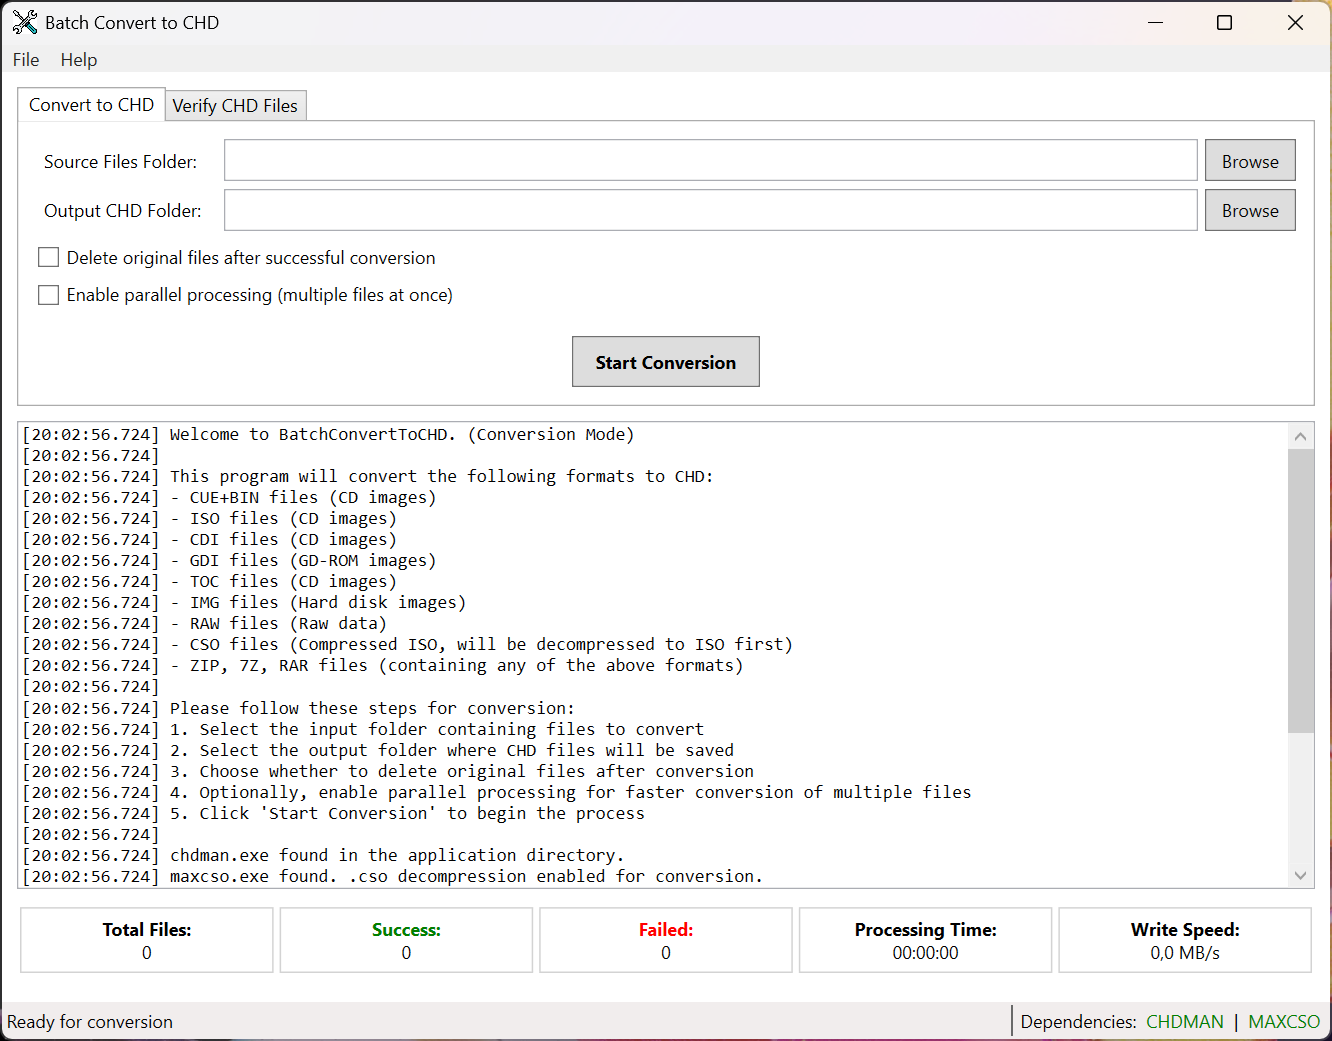
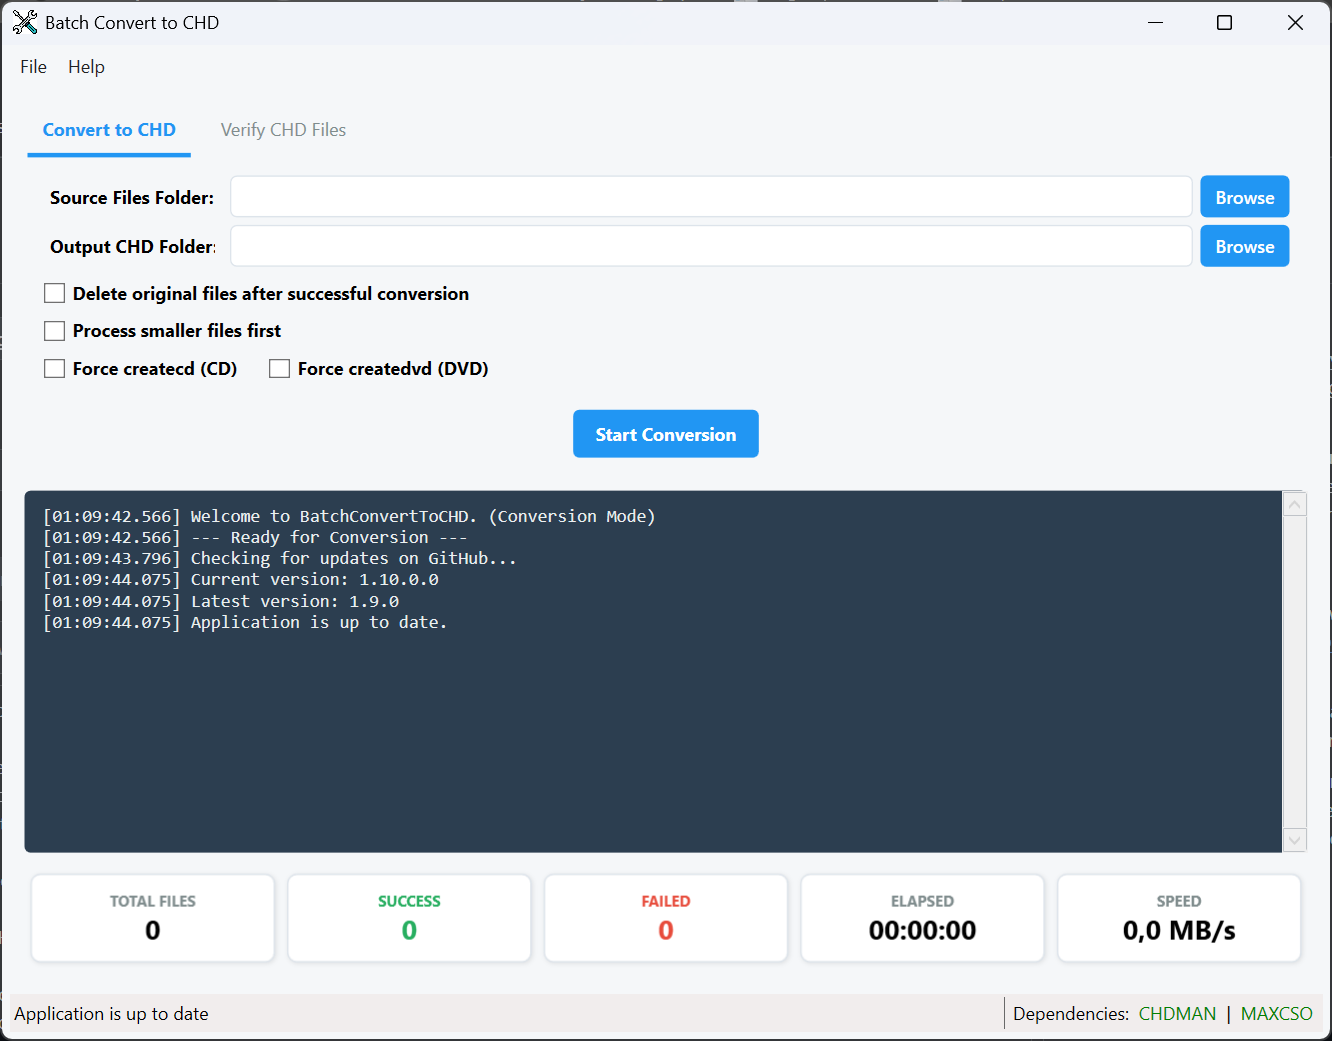
Revamp `ReadMe.md` with feature highlights and visuals
- Rewrote and reorganized `ReadMe.md` to improve clarity, showcase key features, and emphasize supported formats.
- Added badges for license, platform, and dependencies.
- Replaced and expanded screenshots for better visual representation of the tool.
- Updated installation and usage sections with streamlined instructions.
- Elaborated on technical details, contributing guidelines, and acknowledgments.

diff --git a/ReadMe.md b/ReadMe.md
@@ -1,163 +1,116 @@
 # Batch Convert to CHD
 
-A Windows desktop utility for batch converting various disk image formats to CHD (Compressed Hunks of Data) format and for verifying the integrity of existing CHD files.
+[![License: GPL v3](https://img.shields.io/badge/License-GPLv3-blue.svg)](LICENSE.txt)
+[![.NET 10.0](https://img.shields.io/badge/.NET-10.0-512bd4.svg)](https://dotnet.microsoft.com/download/dotnet/10.0)
+[![Platform: Windows](https://img.shields.io/badge/Platform-Windows-0078d7.svg)](#)
 
-![Batch Convert to CHD](screenshot.png)
+**Batch Convert to CHD** is a high-performance Windows desktop utility designed to streamline the conversion of various disk image formats into the **Compressed Hunks of Data (CHD)** format. By leveraging the industry-standard `chdman` (MAME) and `maxcso` tools, it provides a robust, user-friendly interface for batch processing, archive extraction, and data integrity verification.
 
-## Overview
+![Batch Convert to CHD Screenshot](screenshot.png)
+![Batch Convert to CHD Screenshot](screenshot2.png)
 
-Batch Convert to CHD is a Windows application that provides a simple user interface for converting multiple disk image files to the CHD format and verifying existing CHD files. It uses **CHDMAN** from the MAME project for the actual conversions and verifications, while providing a user-friendly interface for batch processing. The application supports extracting disk images from archives, and comprehensive CHD file verification.
+## 🚀 Key Features
 
-⭐ **If you find this tool useful, please give us a Star on GitHub!** ⭐
+### Intelligent Conversion
+*   **Automated Batch Processing**: Convert entire directories of disk images with real-time progress monitoring.
+*   **Smart Command Selection**: Automatically detects the optimal `chdman` command (`createcd`, `createdvd`, `createhd`, or `createraw`) based on file headers and extensions.
+*   **Archive Integration**: Transparently handles `.zip`, `.7z`, and `.rar` archives, extracting and processing contents automatically.
+*   **CSO Decompression**: Built-in support for `.cso` (Compressed ISO) files via `maxcso` integration.
+*   **Queue Optimization**: Option to process smaller files first to maximize throughput and manage temporary storage efficiently.
 
-## Features
+### Integrity & Verification
+*   **Batch Verification**: Validate the checksums and structural integrity of existing CHD files.
+*   **Automated Organization**: Optionally move verified or failed files into dedicated subfolders (`Success`/`Failed`) for easy library management.
+*   **Recursive Scanning**: Support for deep-folder verification passes.
 
-### Conversion Features
-- **Batch Processing**: Convert multiple files in a single operation with real-time progress tracking
-- **Multiple Format Support**: Handles CD, DVD, GD-ROM, and HDD image formats
-- **Archive Support**: Automatically extracts and processes files from `.zip`, `.7z`, and `.rar` archives
-- **CSO Decompression**: Supports `.cso` (Compressed ISO) files with automatic decompression using maxcso
-- **Smart Command Selection**: Automatically chooses the correct CHDMAN command (`createcd`, `createdvd`, etc.) based on file type
-- **Smart File Handling**: Sanitizes file names and handles complex file paths safely by using temporary files for processing
-- **Delete Original Option**: Remove source files (including archives and referenced files like .bin for .cue) after successful conversion
-- **Process Smallest First**: Option to prioritize processing smaller files first, which can be useful for quicker feedback on progress or for systems with limited temporary storage.
-
-### Verification Features
-- **CHD Integrity Verification**: Verify the integrity of existing CHD files using CHDMAN
-- **Batch Verification**: Process multiple CHD files in one operation
-- **Subfolder Support**: Optionally include subfolders in verification scans
-- **File Organization**: Move verified files to success/failed folders for easy organization
-- **Detailed Reporting**: Comprehensive logging of verification results
-
-### User Interface & Monitoring
-- **Tabbed Interface**: Separate tabs for conversion and verification operations
-- **Real-time Progress**: Live progress bars, file counts, and processing statistics
-- **Write Speed Monitoring**: Real-time disk write speed display during conversion operations
-- **Comprehensive Logging**: Detailed timestamped logs with error reporting
-- **Cancellation Support**: Gracefully cancel operations in progress
-
-## Conversion Logic (CHDMAN Commands)
-
-The application automatically determines which `chdman` command to execute based on the file extension and user-selected overrides. This ensures the highest compatibility with different disc types.
-
-### Automatic Detection
-By default, the tool follows this priority logic:
-1.  **`.iso` files**: Uses `createdvd`. This is the standard for DVD-based images.
-2.  **`.img` files**: Uses `createhd`. This is intended for hard disk images.
-3.  **`.raw` files**: Uses `createraw`.
-4.  **All other formats (`.cue`, `.cdi`, `.gdi`, `.toc`)**: Uses `createcd`. This is the standard for CD and GD-ROM based images.
-
-### Manual Overrides
-You can manually force a specific mode using the checkboxes in the UI:
-- **Force createcd (CD)**: Overrides the logic to use `createcd` regardless of the file extension (useful for non-standard `.iso` files that are actually CD-based).
-- **Force createdvd (DVD)**: Overrides the logic to use `createdvd` regardless of the file extension.
-
-## Supported File Formats
-
-### Input Formats (Conversion)
-- **CUE+BIN files** (CD images with track information)
-- **ISO files** (CD/DVD images)
-- **CDI files** (DiscJuggler CD images)
-- **GDI files** (Dreamcast GD-ROM images)
-- **TOC files** (CD images with table of contents)
-- **IMG files** (Hard disk images)
-- **RAW files** (Raw sector data)
-- **CSO files** (Compressed ISO files - requires maxcso.exe)
-- **Archive files**: ZIP, 7Z, RAR (containing any of the above formats)
-
-### Output Format
-- **CHD files** (Compressed Hunks of Data)—optimized for emulation
-
-## Requirements
-
-- **Operating System**: Windows 7 or later (64-bit recommended)
-- **Runtime**: [.NET 10.0 Runtime](https://dotnet.microsoft.com/download/dotnet/10.0)
-- **Dependencies** (included with application):
-    - `chdman.exe` - MAME CHD creation and verification tool
-    - `maxcso.exe` - CSO decompression utility (optional, for .cso support)
-    - `7z_x64.dll` - 7-Zip library for archive extraction
-
-## Installation
-
-1. Download the latest release from the [GitHub releases page](https://github.com/drpetersonfernandes/BatchConvertToCHD/releases)
-2. Extract the ZIP file to a folder of your choice
-3. Ensure all required executables (`chdman.exe`, `maxcso.exe`) and the `7z_x64.dll` library are in the same folder as `BatchConvertToCHD.exe`
-4. Run `BatchConvertToCHD.exe`
-
-## Usage
-
-### Converting Disk Images to CHD
-
-1. **Select the "Convert to CHD" tab**
-2. **Choose Source Folder**: Click "Browse" next to "Source Files Folder" to select the folder containing files to convert
-3. **Choose Output Folder**: Click "Browse" next to "Output CHD Folder" to select where CHD files will be saved
-4. **Configure Options**:
-    - Check "Delete original files after successful conversion" to remove source files after conversion
-    - Check "Process smaller files first" to sort the conversion queue by file size.
-    - Use "Force" checkboxes if you need to override the automatic command detection.
-5. **Start Conversion**: Click "Start Conversion" to begin the process
-6. **Monitor Progress**: View real-time progress, statistics, and detailed logs
-7. **Cancel if Needed**: Click "Cancel" to gracefully stop the operation
-
-### Verifying CHD Files
-
-1. **Select the "Verify CHD Files" tab**
-2. **Choose CHD Folder**: Click "Browse" to select the folder containing CHD files to verify
-3. **Configure Options**:
-    - Check "Include subfolders in CHD search" to scan subdirectories
-    - Check "Move successfully tested CHD files to 'Success' folder" to organize verified files
-    - Check "Move failed tested CHD files to 'Failed' folder" to separate problematic files
-4. **Start Verification**: Click "Start Verification" to begin the process
-5. **Review Results**: Check the logs and statistics for verification results
-
-## About CHD Format
-
-CHD (Compressed Hunks of Data) is a compressed disk image format developed for the MAME project that offers several advantages:
-
-- **Efficient Compression**: Significantly reduces file sizes compared to raw disk images
-- **Lossless Storage**: Preserves all original data and metadata without quality loss
-- **Metadata Preservation**: Retains important disk information such as track layout and sector data
-- **Data Integrity**: Built-in checksums ensure image validity and detect corruption
-- **Emulator Compatibility**: Native support in MAME and many other emulators
-- **Multiple Compression**: Uses different algorithms optimized for various data types
-
-## Performance Tips
-
-- **SSD Storage**: Store temporary files and output on SSD drives for better performance
-- **File Organization**: Organize input files in a single folder for efficient batch processing
-
-## Troubleshooting
-
-### Common Issues
-- **Missing Dependencies**: Ensure `chdman.exe` and `7z_x64.dll` are present in the application directory. `maxcso.exe` is also required for CSO support.
-- **Permissions**: Verify read/write permissions for input and output directories
-- **Disk Space**: Ensure sufficient free space in output and temporary directories
-- **File Locks**: Close other applications that might be accessing the files
-
-### Error Reporting
-- The application automatically reports errors to the developer for analysis
-- Check the log window for detailed error messages and troubleshooting information
-- Review the GitHub issues page for known problems and solutions
-
-### CSO File Support
-- CSO decompression requires `maxcso.exe` in the application directory
-- If maxcso.exe is missing, CSO files will be skipped during conversion
-
-## Acknowledgements
-
-- **CHDMAN**: Uses CHDMAN from the [MAME project](https://www.mamedev.org/) for CHD operations
-- **MaxCSO**: Integrates maxcso for CSO file decompression
-- **SevenZipSharp**: Uses SevenZipSharp library for archive extraction
-- **Development**: Created by [Pure Logic Code](https://www.purelogiccode.com)
-
-## Support & Contributing
-
-- **Website**: [purelogiccode.com](https://www.purelogiccode.com)
-- **GitHub**: [BatchConvertToCHD Repository](https://github.com/drpetersonfernandes/BatchConvertToCHD)
-- **Issues**: Report bugs and request features on GitHub
-- **Updates**: The application automatically checks for updates on startup
+### Performance & UI
+*   **Real-time Telemetry**: Monitor disk write speeds and elapsed time during operations.
+*   **Safe File Handling**: Sanitizes filenames and utilizes temporary directories to prevent data corruption on network shares or restricted paths.
+*   **Comprehensive Logging**: Detailed, timestamped logs for auditing and troubleshooting.
 
 ---
-⭐ **Remember to Star this repository if you find it useful!** ⭐
 
-If you like the software, consider donation on [purelogiccode.com/donate](https://www.purelogiccode.com/donate).
+## 📂 Supported Formats
+
+| Category | Formats |
+| :--- | :--- |
+| **Standard Images** | `.iso`, `.cue` (+`.bin`), `.img`, `.raw`, `.toc` |
+| **Console Specific** | `.cdi` (Dreamcast/Saturn), `.gdi` (Dreamcast) |
+| **Compressed** | `.cso` (Compressed ISO) |
+| **Archives** | `.zip`, `.7z`, `.rar` |
+| **Output** | `.chd` (Compressed Hunks of Data) |
+
+---
+
+## 🛠 Technical Logic
+
+The application implements a priority-based logic to ensure compatibility with various emulators and hardware:
+
+1.  **DVD Images (`.iso`)**: Defaults to `createdvd`.
+2.  **Hard Disk Images (`.img`)**: Defaults to `createhd`.
+3.  **Raw Data (`.raw`)**: Defaults to `createraw`.
+4.  **Multi-track/CD Images (`.cue`, `.cdi`, `.gdi`, `.toc`)**: Defaults to `createcd`.
+
+*Users can manually override these settings via the UI to force specific modes for non-standard images.*
+
+---
+
+## 💻 Requirements
+
+*   **Operating System**: Windows 10 / 11 (64-bit recommended)
+*   **Runtime**: [.NET 10.0 Desktop Runtime](https://dotnet.microsoft.com/download/dotnet/10.0)
+*   **Bundled Dependencies**:
+    *   `chdman.exe` (MAME Project)
+    *   `maxcso.exe` (CSO Decompression)
+    *   `7z_x64.dll` (SevenZipSharp library)
+
+---
+
+## 📥 Installation
+
+1.  Download the latest binary from the [Releases](https://github.com/drpetersonfernandes/BatchConvertToCHD/releases) page.
+2.  Extract the contents to a permanent folder.
+3.  Ensure `chdman.exe`, `maxcso.exe`, and `7z_x64.dll` remain in the same directory as `BatchConvertToCHD.exe`.
+4.  Launch the application.
+
+---
+
+## 📖 Usage
+
+### Conversion Workflow
+1.  Navigate to the **Convert to CHD** tab.
+2.  Select your **Source Folder** (containing images or archives).
+3.  Select your **Output Folder**.
+4.  *(Optional)* Enable "Delete original files" to clean up source data after a successful conversion.
+5.  Click **Start Conversion**.
+
+### Verification Workflow
+1.  Navigate to the **Verify CHD Files** tab.
+2.  Select the folder containing your `.chd` files.
+3.  Configure folder organization options (Success/Failed folders).
+4.  Click **Start Verification**.
+
+---
+
+## 🤝 Contributing & Support
+
+If you encounter issues or have feature requests, please use the [GitHub Issues](https://github.com/drpetersonfernandes/BatchConvertToCHD/issues) tracker.
+
+**Support the Project:**
+If this tool saves you time, consider supporting further development:
+*   ⭐ **Star this repository** on GitHub.
+*   ☕ **Donate**: [purelogiccode.com/donate](https://www.purelogiccode.com/donate)
+
+---
+
+## 📜 License
+
+This project is licensed under the **GNU General Public License v3.0**. See the [LICENSE.txt](LICENSE.txt) file for details.
+
+**Acknowledgements:**
+*   [MAME Team](https://www.mamedev.org/) for `chdman`.
+*   [unknownbrackets](https://github.com/unknownbrackets/maxcso) for `maxcso`.
+*   [SevenZipSharp](https://github.com/squid-box/SevenZipSharp) for archive handling.
+
+---
+Developed by [Pure Logic Code](https://www.purelogiccode.com)
